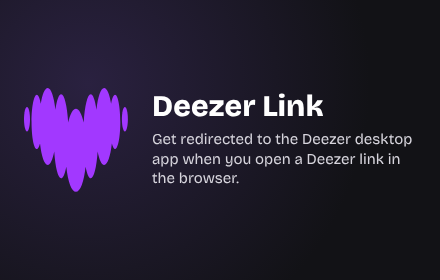
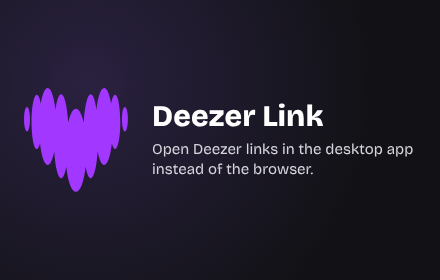
docs(dzr-link, dzr-tab): fewer repetitions of Deezer in the store texts

Changed region(s): [[0.325, 0.3143, 0.9455, 0.6571]]

diff --git a/README.md b/README.md
@@ -2,11 +2,11 @@
 
 Monorepo of my browser extensions (WebExtensions), built with [WXT](https://wxt.dev) and pnpm workspaces.
 
-| Extension                               | Description                                                                          |
-| --------------------------------------- | ------------------------------------------------------------------------------------ |
-| [dzr-link](extensions/dzr-link)         | Get redirected to the Deezer desktop app when you open a Deezer link in the browser. |
-| [dzr-tab](extensions/dzr-tab)           | Discover a Deezer track every time you open a new tab.                               |
-| [music-bridge](extensions/music-bridge) | Open any music link on your favorite streaming platform with one click.              |
+| Extension                               | Description                                                             |
+| --------------------------------------- | ----------------------------------------------------------------------- |
+| [dzr-link](extensions/dzr-link)         | Open Deezer links in the desktop app instead of the browser.            |
+| [dzr-tab](extensions/dzr-tab)           | Discover a Deezer track every time you open a new tab.                  |
+| [music-bridge](extensions/music-bridge) | Open any music link on your favorite streaming platform with one click. |
 
 | Extension    | Chrome Web Store                                                                                                | addons.mozilla.org                                                                                                               | Microsoft Edge Add-ons                                                                                                   |
 | ------------ | --------------------------------------------------------------------------------------------------------------- | -------------------------------------------------------------------------------------------------------------------------------- | ------------------------------------------------------------------------------------------------------------------------ |

diff --git a/extensions/dzr-link/store/description-fr.md b/extensions/dzr-link/store/description-fr.md
@@ -1,9 +1,8 @@
-Vous cliquez sur un lien Deezer et vous vous retrouvez dans le navigateur ? Cette extension l'ouvre plutôt dans l'application Deezer, là où vous voulez écouter.
+Vous cliquez sur un lien Deezer et vous vous retrouvez dans le navigateur ? Deezer Link l'ouvre plutôt dans l'application de bureau, là où vous voulez écouter.
 
-- Fonctionne avec tous les liens deezer.com : titres, albums, playlists, artistes, podcasts.
-- Les liens avec ou sans langue dans l'adresse (deezer.com/fr/…, deezer.com/pt-br/…) sont pris en charge.
-- Rien à configurer : installez-la, puis ouvrez un lien Deezer.
+- Fonctionne avec tous les liens : titres, albums, playlists, artistes, podcasts, avec ou sans langue dans l'adresse (deezer.com/fr/…, deezer.com/pt-br/…).
+- Rien à configurer : installez-la, puis ouvrez un lien.
 - Sur Firefox, l'onglet resté ouvert se ferme tout seul.
 - Aucun pistage : l'extension n'envoie aucune donnée à son développeur.
 
-Nécessite l'application Deezer pour ordinateur. Non disponible sur ChromeOS, où il n'y a pas d'application Deezer.
+Nécessite l'application de bureau, donc non disponible sur ChromeOS.

diff --git a/extensions/dzr-link/store/description-en.md b/extensions/dzr-link/store/description-en.md
@@ -1,9 +1,8 @@
-Clicked a Deezer link and landed in your browser? This extension opens it in the Deezer desktop app instead, right where you want to listen.
+Clicked a Deezer link and landed in your browser? Deezer Link opens it in the desktop app instead, right where you want to listen.
 
-- Works with every deezer.com link: tracks, albums, playlists, artists, podcasts.
-- Links with or without a language in the address (deezer.com/fr/…, deezer.com/pt-br/…) are supported.
-- Nothing to set up: install it and open a Deezer link.
+- Works with every link: tracks, albums, playlists, artists, podcasts, with or without a language in the address (deezer.com/fr/…, deezer.com/pt-br/…).
+- Nothing to set up: install it, then open a link.
 - On Firefox, the tab left behind closes on its own.
 - No tracking: the extension sends no data to its developer.
 
-Requires the Deezer desktop app. Not available on ChromeOS, which has no Deezer desktop app.
+Requires the desktop app, so not available on ChromeOS.

diff --git a/extensions/dzr-tab/store/description-fr.md b/extensions/dzr-tab/store/description-fr.md
@@ -2,7 +2,7 @@ Deezer Tab remplace la page du nouvel onglet par un titre des playlists phares d
 
 - Un clic sur la pochette, le titre ou l'artiste l'ouvre sur Deezer.
 - Le texte reste toujours lisible : sa couleur et le fond sont choisis pour un contraste conforme aux règles d'accessibilité WCAG.
-- Les titres sont gardés en cache une heure : la page s'ouvre vite et fonctionne même quand Deezer ne répond pas.
+- Les titres sont gardés en cache une heure : la page s'ouvre vite, même quand l'API ne répond pas.
 - Sans compte ni pistage : l'extension n'envoie aucune donnée à son développeur.
 
 Disponible en anglais et en français.

diff --git a/extensions/dzr-tab/store/description-en.md b/extensions/dzr-tab/store/description-en.md
@@ -2,7 +2,7 @@ Deezer Tab replaces your new tab page with a track from Deezer's top playlists. 
 
 - One click on the cover, the title or the artist opens it on Deezer.
 - The text always stays readable: its color and the background are chosen for a contrast that meets the WCAG accessibility guidelines.
-- Tracks are cached for an hour, so the page opens quickly and still works when Deezer cannot be reached.
+- Tracks are cached for an hour, so the page opens quickly, even when the API does not answer.
 - No account needed, no tracking: the extension sends no data to its developer.
 
 Available in English and French.

diff --git a/extensions/dzr-link/store/README.md b/extensions/dzr-link/store/README.md
@@ -24,8 +24,8 @@ Everything the store listings ask for, in one place, in every language of the ex
 
 The manifest takes them from [`public/_locales`](../public/_locales).
 
-- **EN**: Deezer Link. Get redirected to the Deezer desktop app when you open a Deezer link in the browser.
-- **FR**: Deezer Link. Ouvrez les liens Deezer directement dans l'application Deezer plutôt que dans le navigateur.
+- **EN**: Deezer Link. Open Deezer links in the desktop app instead of the browser.
+- **FR**: Deezer Link. Ouvrez les liens Deezer dans l'application de bureau plutôt que dans le navigateur.
 
 ## Description
 

diff --git a/extensions/dzr-link/README.md b/extensions/dzr-link/README.md
@@ -1,6 +1,6 @@
 # Deezer Link
 
-**Get redirected to the Deezer desktop app when you open a Deezer link in the browser.**
+**Open Deezer links in the desktop app instead of the browser.**
 
 Available for:
 

diff --git a/.changeset/dzr-link-description.md b/.changeset/dzr-link-description.md
@@ -1,0 +1,5 @@
+---
+'dzr-link': patch
+---
+
+Shorter description, with fewer repetitions of Deezer.
